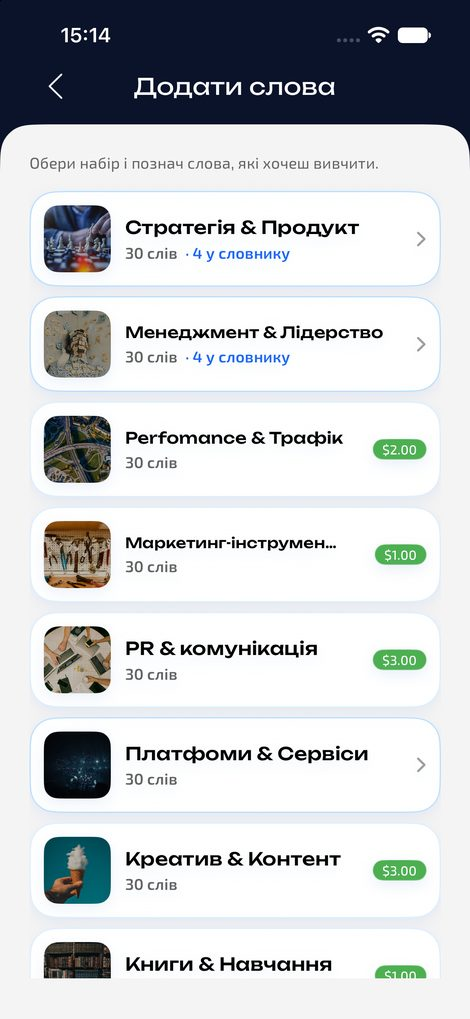
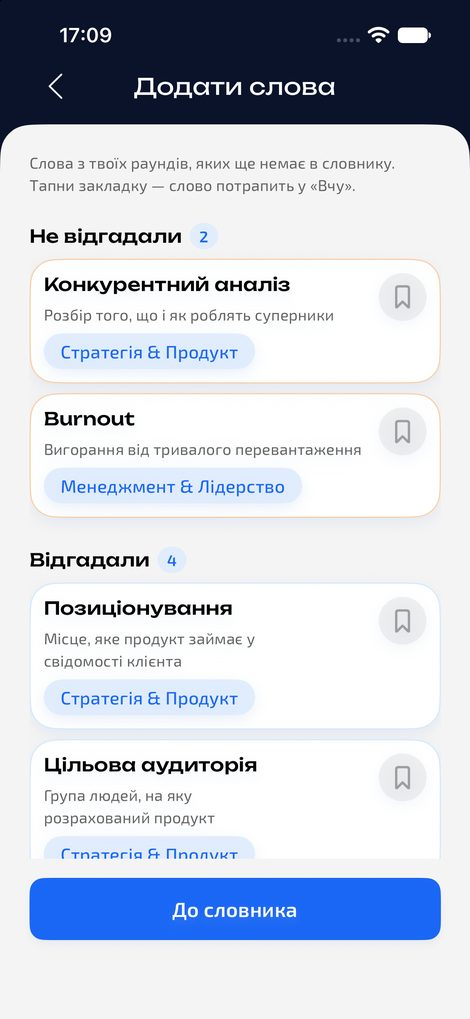
«Додати слова» лише з розіграних раундів
Claude-Session: https://claude.ai/code/session_01CGPdZXhbxxUGrxYWeE1EMW

diff --git a/index.html b/index.html
@@ -303,7 +303,7 @@ figcaption{cursor:zoom-in}
 <header class="fh">
 <div class="fh-top"><span class="code">D</span><h2>Словник</h2><span class="count">9</span></div>
 <p class="blurb">Слова, збережені під час гри. Флешкартки збирають колоду лише з невивчених і фіксують її на вході. Якщо вивчено все — береться повний словник як режим повторення.</p>
-<p class="path">savedWords → savedWordCards · addWords → setWords</p>
+<p class="path">savedWords → savedWordCards · addWords</p>
 </header>
 <div class="grid-screens"><figure class="card" tabindex="0" data-route="savedWords" data-label="Словник" data-note="Список, статистика, прогрес" data-src="shots/savedWords.jpg">
 <div class="shot"><img src="shots/savedWords.jpg" alt="Словник" loading="lazy"></div>
@@ -326,12 +326,12 @@ figcaption{cursor:zoom-in}
 </figure><figure class="card" tabindex="0" data-route="savedWordCardsDone" data-label="Усі слова вивчено" data-note="Колода порожня: додати слова або повторити всі" data-src="shots/savedWordCardsDone.jpg">
 <div class="shot"><img src="shots/savedWordCardsDone.jpg" alt="Усі слова вивчено" loading="lazy"></div>
 <figcaption><b>Усі слова вивчено</b><span class="note">Колода порожня: додати слова або повторити всі</span></figcaption>
-</figure><figure class="card" tabindex="0" data-route="addWords" data-label="Додати слова" data-note="Набори без гри: закриті ведуть на пейвол" data-src="shots/addWords.jpg">
+</figure><figure class="card" tabindex="0" data-route="addWords" data-label="Додати слова" data-note="Лише з розіграних раундів: не відгадали — першими" data-src="shots/addWords.jpg">
 <div class="shot"><img src="shots/addWords.jpg" alt="Додати слова" loading="lazy"></div>
-<figcaption><b>Додати слова</b><span class="note">Набори без гри: закриті ведуть на пейвол</span></figcaption>
-</figure><figure class="card" tabindex="0" data-route="setWords" data-label="Слова набору" data-note="Закладка додає слово у «Вчу»" data-src="shots/setWords.jpg">
-<div class="shot"><img src="shots/setWords.jpg" alt="Слова набору" loading="lazy"></div>
-<figcaption><b>Слова набору</b><span class="note">Закладка додає слово у «Вчу»</span></figcaption>
+<figcaption><b>Додати слова</b><span class="note">Лише з розіграних раундів: не відгадали — першими</span></figcaption>
+</figure><figure class="card" tabindex="0" data-route="addWordsEmpty" data-label="Ще не грали" data-note="Порожній журнал → «Зіграти»" data-src="shots/addWordsEmpty.jpg">
+<div class="shot"><img src="shots/addWordsEmpty.jpg" alt="Ще не грали" loading="lazy"></div>
+<figcaption><b>Ще не грали</b><span class="note">Порожній журнал → «Зіграти»</span></figcaption>
 </figure></div>
 </section><section class="flow" id="fE">
 <header class="fh">
